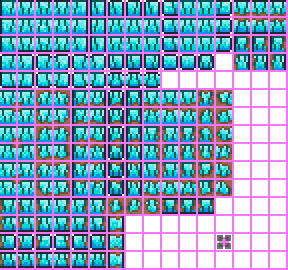
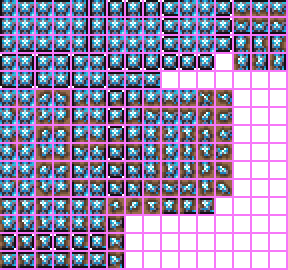
Fix some stuff
-Fix platinum chests in Sky Fortress generating below the structure on the ground if there was enough space
-Change Sky Brick Wall texture
-Change Osmium Brick and Brick Wall texture

diff --git a/World/Structures/SkyFortress.cs b/World/Structures/SkyFortress.cs
@@ -1266,10 +1266,13 @@ public class SkyFortress
                                 tile.IsHalfBlock = false;
                                 break;
                             case 84:
-                                tile.HasTile = false;
-                                tile.Slope = SlopeType.Solid;
-                                tile.IsHalfBlock = false;
-                                AddPlatinumChest(k, l);
+                                if (confirmPlatforms == 1)
+                                {
+                                    tile.HasTile = false;
+                                    tile.Slope = SlopeType.Solid;
+                                    tile.IsHalfBlock = false;
+                                    AddPlatinumChest(k, l);
+                                }
                                 break;
                             case 85:
                                 tile.HasTile = true;
@@ -1286,55 +1289,50 @@ public class SkyFortress
         #endregion tiles
         World.Utils.SquareTileFrameArea(x, y, 250);
     }
-    public static bool AddPlatinumChest(int i, int j, int contain = 0, bool notNearOtherChests = false, int Style = -1)
+    public static bool AddPlatinumChest(int i, int j, bool notNearOtherChests = false)
     {
         int k = j;
         while (k < Main.maxTilesY)
         {
-            if (Main.tile[i, k].HasTile && Main.tileSolid[(int)Main.tile[i, k].TileType])
+            if (Main.tile[i, k].HasTile && Main.tileSolid[Main.tile[i, k].TileType])
             {
                 int num = k;
                 int num2 = WorldGen.PlaceChest(i - 1, num - 1, (ushort)ModContent.TileType<Tiles.PlatinumChest>(), notNearOtherChests);
                 if (num2 >= 0)
                 {
-                    int num3 = 0;
-                    while (num3 == 0)
+                    Main.chest[num2].item[0].SetDefaults(ModContent.ItemType<Items.Consumables.DragonBait>(), false);
+                    Main.chest[num2].item[0].stack = Main.rand.Next(2, 6);
+                    Main.chest[num2].item[1].SetDefaults(ModContent.ItemType<Items.Placeable.Tile.SkyBrick>(), false);
+                    Main.chest[num2].item[1].stack = Main.rand.Next(200, 451);
+                    int rand = WorldGen.genRand.Next(3);
+                    if (rand == 0)
                     {
-                        Main.chest[num2].item[0].SetDefaults(ModContent.ItemType<Items.Consumables.DragonBait>(), false);
-                        Main.chest[num2].item[0].stack = Main.rand.Next(2, 6);
-                        Main.chest[num2].item[1].SetDefaults(ModContent.ItemType<Items.Placeable.Tile.SkyBrick>(), false);
-                        Main.chest[num2].item[1].stack = Main.rand.Next(200, 451);
-                        int rand = WorldGen.genRand.Next(3);
-                        if (rand == 0)
-                        {
-                            Main.chest[num2].item[2].SetDefaults(ModContent.ItemType<Items.Potions.SupersonicPotion>(), false);
-                            Main.chest[num2].item[2].stack = Main.rand.Next(2, 4);
-                        }
-                        if (rand == 1)
-                        {
-                            Main.chest[num2].item[2].SetDefaults(ModContent.ItemType<Items.Potions.LeapingPotion>(), false);
-                            Main.chest[num2].item[2].stack = Main.rand.Next(2, 5);
-                        }
-                        if (rand == 2)
-                        {
-                            Main.chest[num2].item[2].SetDefaults(ModContent.ItemType<Items.Potions.CloverPotion>(), false);
-                            Main.chest[num2].item[2].stack = Main.rand.Next(3) + 1;
-                        }
-                        int n2 = WorldGen.genRand.Next(2);
-                        if (n2 == 0)
-                        {
-                            Main.chest[num2].item[3].SetDefaults(ModContent.ItemType<Items.Placeable.Bar.PyroscoricBar>(), false);
-                            Main.chest[num2].item[3].stack = Main.rand.Next(11, 25);
-                        }
-                        if (n2 == 1)
-                        {
-                            Main.chest[num2].item[3].SetDefaults(ModContent.ItemType<Items.Placeable.Bar.TritanoriumBar>(), false);
-                            Main.chest[num2].item[3].stack = Main.rand.Next(11, 25);
-                        }
-                        Main.chest[num2].item[4].SetDefaults(ItemID.PlatinumCoin, false);
-                        Main.chest[num2].item[4].stack = Main.rand.Next(4) + 2;
-                        num3++;
+                        Main.chest[num2].item[2].SetDefaults(ModContent.ItemType<Items.Potions.SupersonicPotion>(), false);
+                        Main.chest[num2].item[2].stack = Main.rand.Next(2, 4);
                     }
+                    if (rand == 1)
+                    {
+                        Main.chest[num2].item[2].SetDefaults(ModContent.ItemType<Items.Potions.LeapingPotion>(), false);
+                        Main.chest[num2].item[2].stack = Main.rand.Next(2, 5);
+                    }
+                    if (rand == 2)
+                    {
+                        Main.chest[num2].item[2].SetDefaults(ModContent.ItemType<Items.Potions.CloverPotion>(), false);
+                        Main.chest[num2].item[2].stack = Main.rand.Next(3) + 1;
+                    }
+                    int n2 = WorldGen.genRand.Next(2);
+                    if (n2 == 0)
+                    {
+                        Main.chest[num2].item[3].SetDefaults(ModContent.ItemType<Items.Placeable.Bar.PyroscoricBar>(), false);
+                        Main.chest[num2].item[3].stack = Main.rand.Next(11, 25);
+                    }
+                    if (n2 == 1)
+                    {
+                        Main.chest[num2].item[3].SetDefaults(ModContent.ItemType<Items.Placeable.Bar.TritanoriumBar>(), false);
+                        Main.chest[num2].item[3].stack = Main.rand.Next(11, 25);
+                    }
+                    Main.chest[num2].item[4].SetDefaults(ItemID.PlatinumCoin, false);
+                    Main.chest[num2].item[4].stack = Main.rand.Next(4) + 2;
                     return true;
                 }
                 return false;

diff --git a/NPCs/BactusMinion.cs b/NPCs/BactusMinion.cs
@@ -3,6 +3,7 @@ using Avalon.Items.Material;
 using Avalon.Items.Placeable.Tile;
 using Microsoft.Xna.Framework;
 using Terraria;
+using Terraria.GameContent.ItemDropRules;
 using Terraria.ID;
 using Terraria.ModLoader;
 
@@ -33,28 +34,8 @@ public class BactusMinion : ModNPC
 
     public override void ModifyNPCLoot(NPCLoot npcLoot)
     {
-        if (NPC.AnyNPCs(ModContent.NPCType<BacteriumPrime>()))
-        {
-            if (Main.rand.Next(3) != 0)
-            {
-                Item.NewItem(NPC.GetSource_Loot(), (int)NPC.position.X, (int)NPC.position.Y, NPC.width, NPC.height,
-                    ModContent.ItemType<Booger>(), Main.rand.Next(1, 4));
-            }
-
-            if (Main.rand.Next(3) != 0)
-            {
-                Item.NewItem(NPC.GetSource_Loot(), (int)NPC.position.X, (int)NPC.position.Y, NPC.width, NPC.height,
-                    ModContent.ItemType<Items.Ore.PandemiteOre>(), Main.rand.Next(4, 11));
-            }
-
-            if (Main.rand.Next(2) == 0 &&
-                Main.player[Player.FindClosest(NPC.position, NPC.width, NPC.height)].statLife <
-                Main.player[Player.FindClosest(NPC.position, NPC.width, NPC.height)].statLifeMax2)
-            {
-                Item.NewItem(NPC.GetSource_Loot(), (int)NPC.position.X, (int)NPC.position.Y, NPC.width, NPC.height,
-                    ItemID.Heart);
-            }
-        }
+        npcLoot.Add(ItemDropRule.Common(ModContent.ItemType<Booger>(), 2, 1, 4));
+        npcLoot.Add(ItemDropRule.Common(ModContent.ItemType<Items.Ore.PandemiteOre>(), 2, 4, 11));
     }
 
     public override void AI()

diff --git a/World/Structures/TropicsSanctum.cs b/World/Structures/TropicsSanctum.cs
@@ -120,7 +120,7 @@ namespace Avalon.World.Structures
                                         tile.Slope = SlopeType.Solid;
                                     if (tile.TileType != (ushort)ModContent.TileType<Tiles.TuhrtlBrick>())
                                         tile.IsHalfBlock = false;
-                                    if (tile.TileType != (ushort)ModContent.TileType<Tiles.TuhrtlBrick>())
+                                    if (tile.TileType != (ushort)ModContent.TileType<Tiles.TuhrtlBrick>() && confirmPlatforms == 1)
                                         WorldGen.AddBuriedChest(k, l, contain: WorldGen.GetNextJungleChestItem(), Style: 0, chestTileType: (ushort)ModContent.TileType<Tiles.PlatinumChest>());
                                     if (tile.TileType != (ushort)ModContent.TileType<Tiles.TuhrtlBrick>())
                                         tile.WallType = (ushort)ModContent.WallType<Walls.TropicalGrassWall>();
